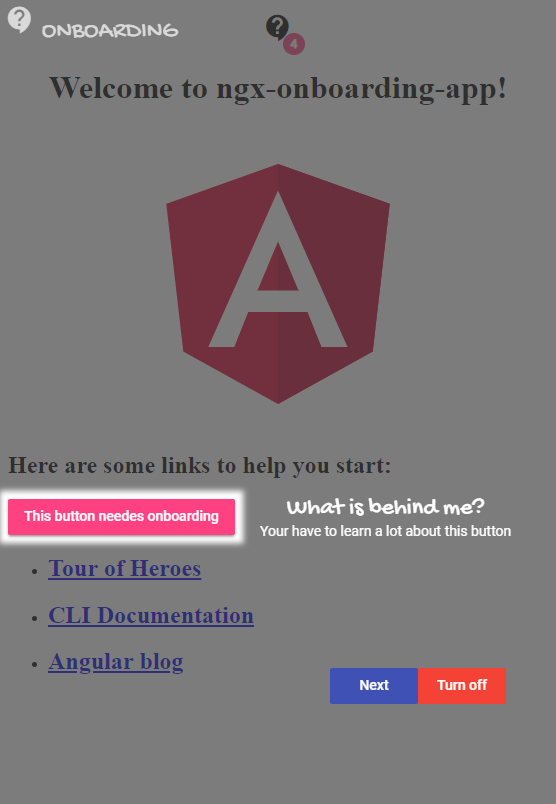
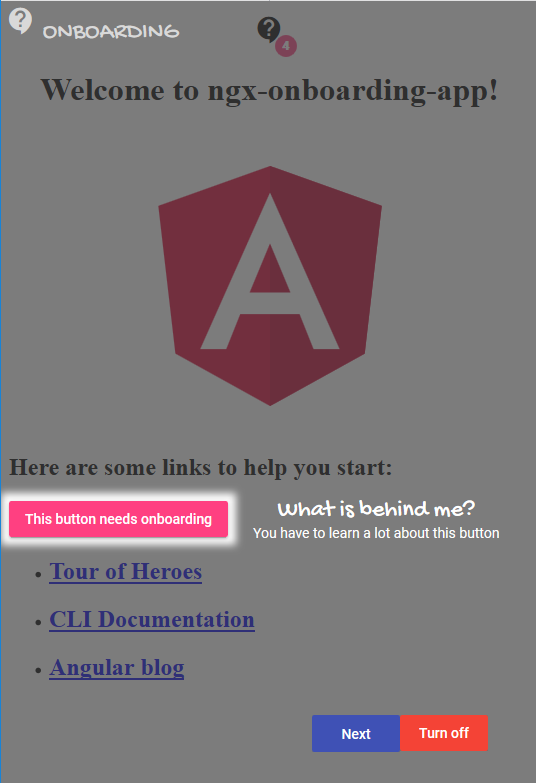
Fixed some spelling mistakes on the demo page and screenshot for readme

diff --git a/src/app/app.component.html b/src/app/app.component.html
@@ -14,7 +14,7 @@
     </div>
     <h2>Here are some links to help you start: </h2>
 
-    <button id="button-that-needs-onboarding" mat-raised-button color="accent">This button needes onboarding</button>
+    <button id="button-that-needs-onboarding" mat-raised-button color="accent">This button needs onboarding</button>
     <ul>
         <li>
             <h2><a target="_blank" rel="noopener" id="tour-of-heroes" class="tourofheros"
